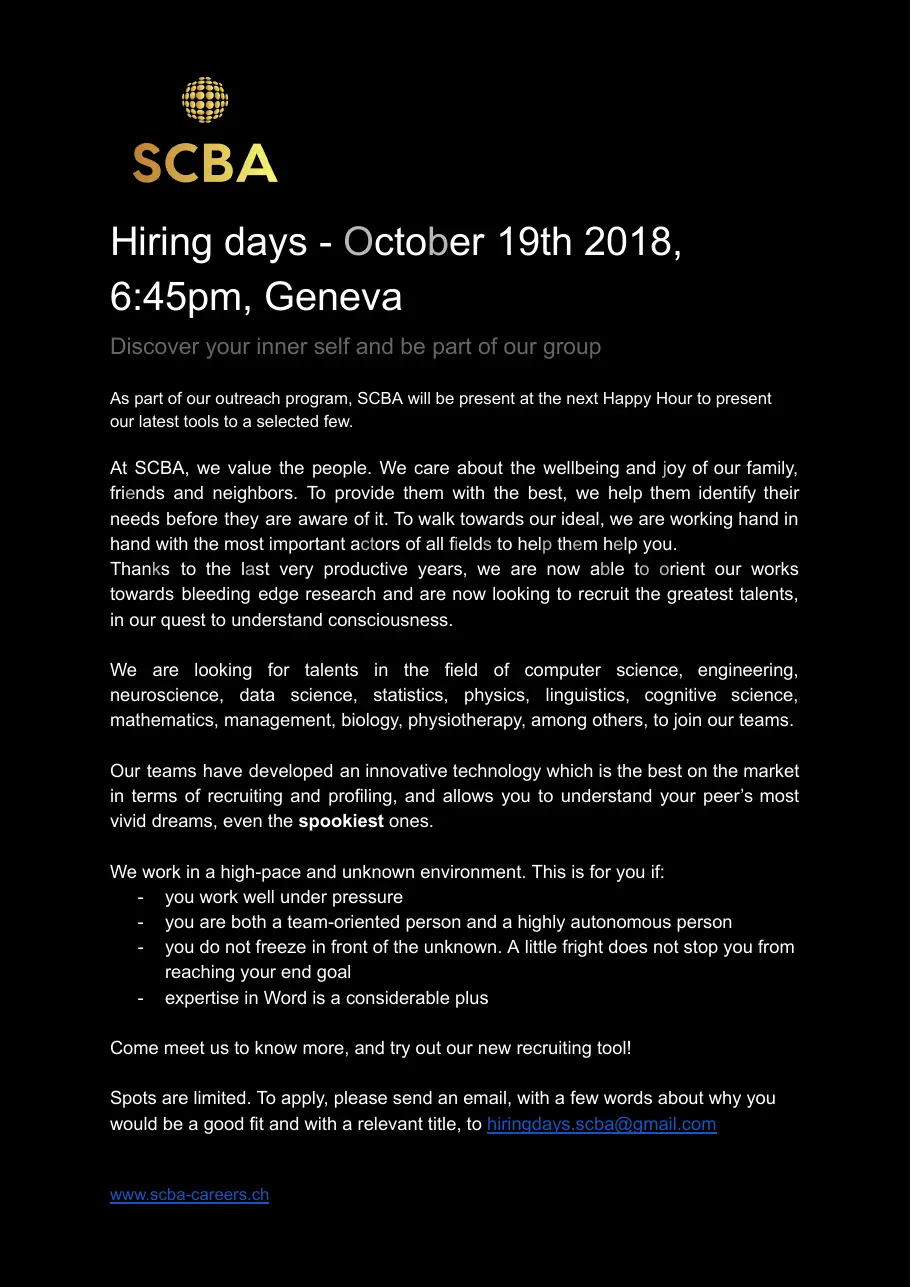
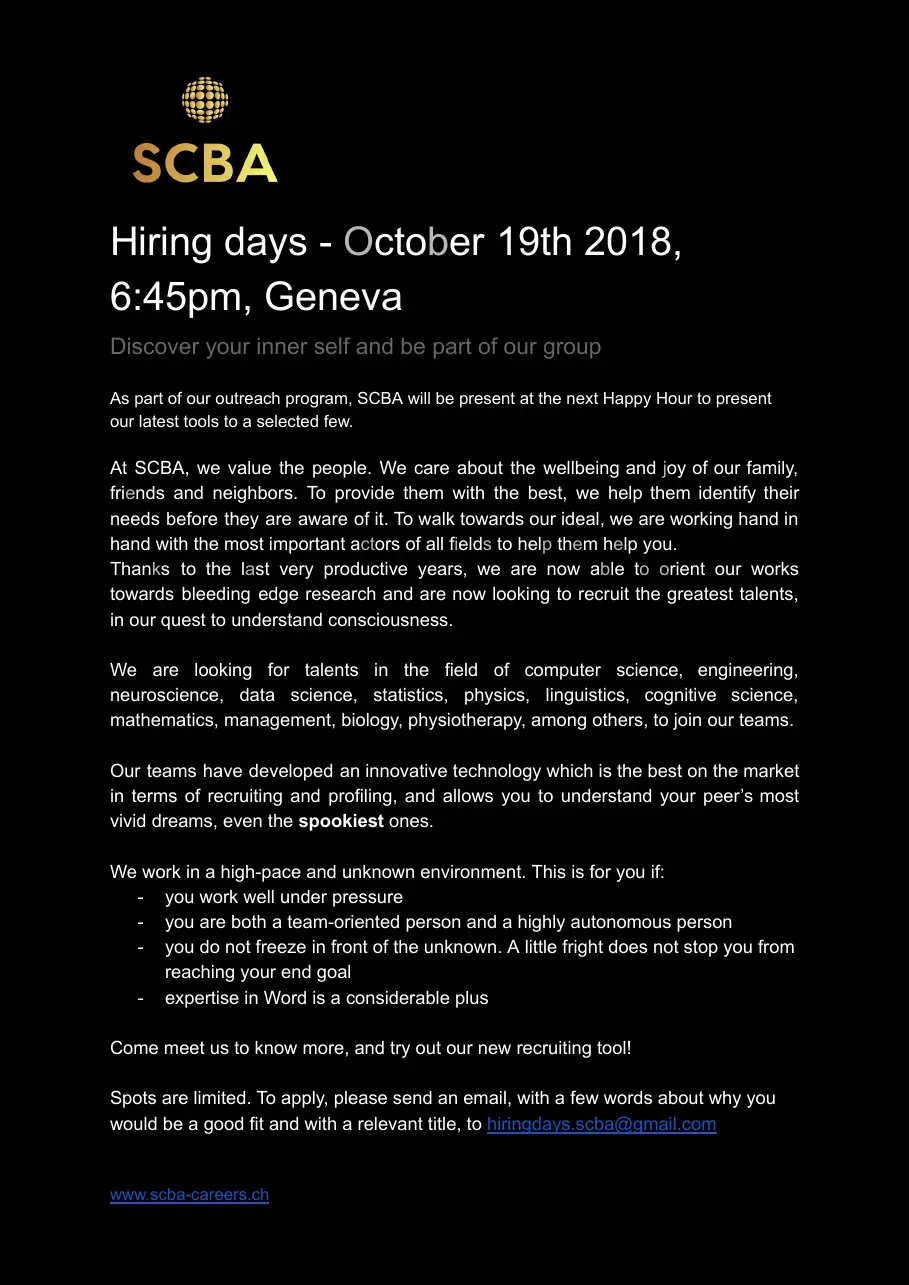
ARG: fictional test wording, single jump scare, flyer edge trimmed

diff --git a/fr/work/halloween-arg.html b/fr/work/halloween-arg.html
@@ -4,9 +4,9 @@
   <meta charset="utf-8">
   <meta name="viewport" content="width=device-width, initial-scale=1">
   <title>Un ARG d’Halloween au Campus Biotech · Arthur Nguyễn</title>
-  <meta name="description" content="Un jeu secret caché dans le happy hour d’Halloween du Campus Biotech : une fausse entreprise, un test de recrutement qui tourne mal, de la VR et des comédiens. Créé par Arthur Nguyen en trois semaines, sans budget.">
+  <meta name="description" content="Un jeu secret caché dans le happy hour d’Halloween du Campus Biotech : une fausse entreprise, un test de recrutement fictif qui tourne mal, de la VR et des comédiens. Créé par Arthur Nguyen en trois semaines, sans budget.">
   <meta property="og:title" content="Un ARG d’Halloween au Campus Biotech">
-  <meta property="og:description" content="Une fausse entreprise, un test de recrutement qui tourne mal, de la VR et des comédiens, construit en trois semaines sans budget.">
+  <meta property="og:description" content="Une fausse entreprise, un test de recrutement fictif qui tourne mal, de la VR et des comédiens, construit en trois semaines sans budget.">
   <meta property="og:image" content="https://arthurnguyen.ch/img/arg-vr.webp">
   <script>try{var t=localStorage.getItem("theme");if(t)document.documentElement.setAttribute("data-theme",t)}catch(e){}</script>
   <link rel="alternate" hreflang="en" href="https://arthurnguyen.ch/work/halloween-arg.html">
@@ -32,7 +32,7 @@
       <a class="back" href="../#work">← Tous les projets</a>
       <p class="label">Game design · 2018</p>
       <h1>Un ARG d’Halloween au Campus Biotech</h1>
-      <p class="lede">Trois semaines, zéro budget, un bâtiment rempli de neuroscientifiques, de psychologues, d’ingénieurs et de tout ce qu’il y a entre deux. Un jeu secret caché dans le happy hour d’Halloween du campus : une fausse entreprise, un test de recrutement qui tourne mal, de la réalité virtuelle et des comédiens.</p>
+      <p class="lede">Trois semaines, zéro budget, un bâtiment rempli de neuroscientifiques, de psychologues, d’ingénieurs et de tout ce qu’il y a entre deux. Un jeu secret caché dans le happy hour d’Halloween du campus : une fausse entreprise, un test de recrutement fictif qui tourne mal, de la réalité virtuelle et des comédiens.</p>
       <dl class="facts">
         <div><dt>Rôle</dt><dd>Création, game design et mise en scène</dd></div>
         <div><dt>Contexte</dt><dd>Happy hour d’Halloween, Campus Biotech, Genève, avec la Social Campus Biotech Association et la plateforme VR du campus</dd></div>
@@ -59,7 +59,7 @@
       <p>À l’intérieur, une vidéo d’entreprise joyeusement sinistre leur posait une première énigme avec un jeu de cartes. Puis, les yeux bandés, ils étaient conduits au « centre de test » pour essayer le nouvel appareil de l’entreprise, qui permet de visiter les rêves de quelqu’un. Le rêve tournait au cauchemar, les casques buguaient, et en les retirant, les joueurs découvraient l’attaque qu’ils venaient de voir en VR se dérouler devant eux, sur un membre de leur équipe. Le point culminant se jouait dans l’auditoire, avec stroboscope, musique étrange et monstres, et je suis heureux que nous en ayons des images. Un stagiaire les évacuait, les monstres frappant aux portes, pour trouver un interrupteur d’urgence, effacer leur mémoire et les renvoyer à la fête.</p>
 
       <figure>
-        <img src="../../img/arg-flyer.webp" width="911" height="1287" alt="Une annonce de recrutement noire avec un logo SCBA doré : « Hiring days – October 19th 2018, 6:45pm, Geneva. Discover your inner self and be part of our group. »" loading="lazy">
+        <img src="../../img/arg-flyer.webp" width="909" height="1285" alt="Une annonce de recrutement noire avec un logo SCBA doré : « Hiring days – October 19th 2018, 6:45pm, Geneva. Discover your inner self and be part of our group. »" loading="lazy">
         <figcaption>L’annonce de recrutement de « SCBA », l’entreprise derrière le jeu.</figcaption>
       </figure>
 
@@ -72,7 +72,7 @@
         <li>Beaucoup d’autres se sont ajoutés en chemin, parce que tout le monde y gagnait.</li>
       </ul>
       <p>La séquence VR combinait un espace 3D construit avec l’ingénieure et des images à 360° que j’avais tournées, puis montées et enrichies. Je ne maîtrisais pas encore bien Unity, si bien que la physique cassait par endroits, avec des chats qui marchaient au plafond et traversaient les murs. J’ai choisi de ne pas corriger : c’était exactement la touche étrange que je cherchais. Dans les images à 360°, j’ai expérimenté avec des images superposées, qui créaient des clones, des silhouettes fantomatiques, des pauses et des accélérations bizarres.</p>
-      <p>La sécurité d’abord. La VR se faisait assis, il y avait presque un membre de l’équipe par joueur, et j’ai supervisé chaque session. L’invitation comportait un avertissement clair, et le brief excluait le gore et les jump scares faciles. Je voulais de l’inconfort, pas un traumatisme.</p>
+      <p>La sécurité d’abord. La VR se faisait assis, il y avait presque un membre de l’équipe par joueur, et j’ai supervisé chaque session. L’invitation comportait un avertissement clair, et le brief excluait le gore. Je ne me suis autorisé qu’un seul jump scare facile, gardé pour la toute fin. Ce que je cherchais, c’était la tension et un léger malaise.</p>
 
       <figure class="wide">
         <img src="../../img/arg-happy-hour.webp" width="1320" height="880" alt="Des décorations de squelettes de chat et de chien à côté d’un seau citrouille, avec des invités en arrière-plan." loading="lazy">

diff --git a/work/halloween-arg.html b/work/halloween-arg.html
@@ -4,9 +4,9 @@
   <meta charset="utf-8">
   <meta name="viewport" content="width=device-width, initial-scale=1">
   <title>A Halloween ARG at Campus Biotech · Arthur Nguyễn</title>
-  <meta name="description" content="A secret game hidden inside the Campus Biotech Halloween happy hour: a fake corporation, a recruitment test gone wrong, VR and live actors. Created by Arthur Nguyen in three weeks with zero budget.">
+  <meta name="description" content="A secret game hidden inside the Campus Biotech Halloween happy hour: a fake corporation, a fictional recruitment test that goes wrong, VR and live actors. Created by Arthur Nguyen in three weeks with zero budget.">
   <meta property="og:title" content="A Halloween ARG at Campus Biotech">
-  <meta property="og:description" content="A fake corporation, a recruitment test gone wrong, VR and live actors, built in three weeks with zero budget.">
+  <meta property="og:description" content="A fake corporation, a fictional recruitment test that goes wrong, VR and live actors, built in three weeks with zero budget.">
   <meta property="og:image" content="https://arthurnguyen.ch/img/arg-vr.webp">
   <script>try{var t=localStorage.getItem("theme");if(t)document.documentElement.setAttribute("data-theme",t)}catch(e){}</script>
   <link rel="alternate" hreflang="en" href="https://arthurnguyen.ch/work/halloween-arg.html">
@@ -32,7 +32,7 @@
       <a class="back" href="../#work">← All work</a>
       <p class="label">Game design · 2018</p>
       <h1>A Halloween ARG at Campus Biotech</h1>
-      <p class="lede">Three weeks, zero budget, a building full of neuroscientists, psychologists, engineers and everyone in between. A secret game hidden inside the campus Halloween happy hour: a fake corporation, a recruitment test that goes wrong, virtual reality, and live actors.</p>
+      <p class="lede">Three weeks, zero budget, a building full of neuroscientists, psychologists, engineers and everyone in between. A secret game hidden inside the campus Halloween happy hour: a fake corporation, a fictional recruitment test that goes wrong, virtual reality, and live actors.</p>
       <dl class="facts">
         <div><dt>Role</dt><dd>Creator, game designer and director</dd></div>
         <div><dt>Context</dt><dd>Halloween happy hour, Campus Biotech, Geneva, with the Social Campus Biotech Association and the campus VR platform</dd></div>
@@ -59,7 +59,7 @@
       <p>Inside, a cheerfully sinister corporate video set them a first puzzle with a deck of cards. Then, blindfolded, they were led to the “testing facility” to try the company’s new device, which lets you visit someone’s dreams. The dream turned into a nightmare, the headsets glitched, and when players took them off, the attack they had just seen in VR was happening in front of them, to one of their own team. The climax played out in the auditorium, with strobe lights, strange music and monsters, and I’m grateful we have footage of it. An intern hurried them out, monsters pounding on the doors, to find a kill switch, wipe their memories and send them back to the party.</p>
 
       <figure>
-        <img src="../img/arg-flyer.webp" width="911" height="1287" alt="A black recruitment flyer with a gold SCBA logo: “Hiring days – October 19th 2018, 6:45pm, Geneva. Discover your inner self and be part of our group.”" loading="lazy">
+        <img src="../img/arg-flyer.webp" width="909" height="1285" alt="A black recruitment flyer with a gold SCBA logo: “Hiring days – October 19th 2018, 6:45pm, Geneva. Discover your inner self and be part of our group.”" loading="lazy">
         <figcaption>The recruitment flyer for “SCBA”, the corporation behind the game.</figcaption>
       </figure>
 
@@ -72,7 +72,7 @@
         <li>Many others added themselves along the way, because it was a win for everyone.</li>
       </ul>
       <p>The VR sequence combined a 3D space built with the engineer and 360° footage I recorded, which I then edited and added to. I wasn’t fully fluent in Unity, so the physics broke in places, with cats walking on the ceiling and through walls. I chose not to fix it: it was exactly the eerie touch I wanted. In the 360° footage I experimented with overlapping frames, which created clones, ghostly figures, odd pauses and accelerations.</p>
-      <p>Safety came first. The VR was seated, there was close to one staff member per player, and I supervised every session. The invitation came with a clear warning, and the brief ruled out gore and cheap jump scares. I wanted discomfort, not trauma.</p>
+      <p>Safety came first. The VR was seated, there was close to one staff member per player, and I supervised every session. The invitation came with a clear warning, and the brief ruled out gore. I allowed myself just one cheap jump scare, saved for the very end. What I wanted was tension and unease.</p>
 
       <figure class="wide">
         <img src="../img/arg-happy-hour.webp" width="1320" height="880" alt="Skeleton cat and dog decorations next to a pumpkin bucket, with guests in the background." loading="lazy">

diff --git a/fr/index.html b/fr/index.html
@@ -153,7 +153,7 @@
           <div class="cartel">
             <h3>Un ARG d’Halloween</h3>
             <p class="meta">2018 · Game design, VR, comédiens</p>
-            <p>Une fausse entreprise, un test de recrutement qui tourne mal, de la VR et des comédiens. Créé en trois semaines sans budget.</p>
+            <p>Une fausse entreprise, un test de recrutement fictif qui tourne mal, de la VR et des comédiens. Créé en trois semaines sans budget.</p>
             <span class="go">Lire le récit →</span>
           </div>
         </a>

diff --git a/index.html b/index.html
@@ -153,7 +153,7 @@
           <div class="cartel">
             <h3>A Halloween ARG</h3>
             <p class="meta">2018 · Game design, VR, live actors</p>
-            <p>A fake corporation, a recruitment test gone wrong, VR and live actors. Built in three weeks with zero budget.</p>
+            <p>A fake corporation, a fictional recruitment test that goes wrong, VR and live actors. Built in three weeks with zero budget.</p>
             <span class="go">Read the story →</span>
           </div>
         </a>
